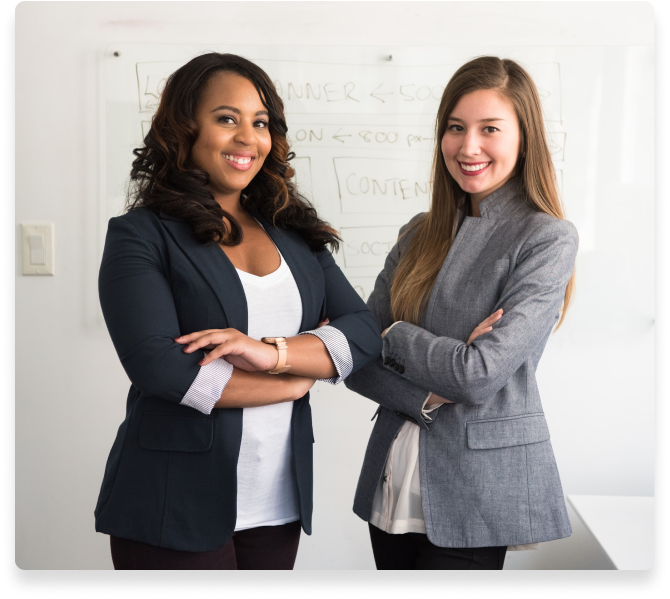
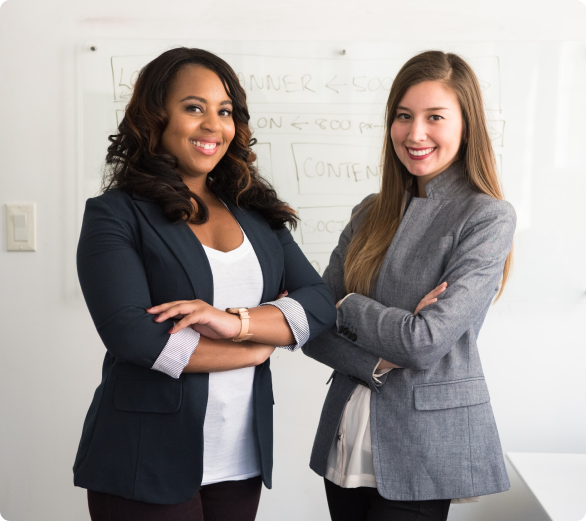
schimbare iconite

diff --git a/src/components/Home/Servicii/CasetaServicii.tsx b/src/components/Home/Servicii/CasetaServicii.tsx
@@ -40,9 +40,8 @@ const CasetaServicii = ({
             duration: 1,
           },
         }}
-        className={`container  ${
-          hovered && "shadow-xl"
-        } my-5 flex  h-fit w-full max-w-[500px] flex-col items-center justify-between gap-4  rounded-[10px] bg-alb-site px-4 py-8 text-center  `}
+        className={`container  ${hovered && "shadow-xl"
+          } my-5 flex  h-fit w-full max-w-[500px] flex-col items-center justify-between gap-4  rounded-[10px] bg-alb-site px-4 py-8 text-center  `}
         id="caseta-servicii"
         onMouseLeave={handleMouseLeave}
         onMouseEnter={handleMouseEnter}
@@ -50,15 +49,15 @@ const CasetaServicii = ({
           setHovered(!hovered);
         }}
       >
-        <div className="h-[42px]  w-[42px]  text-rosu-brand">
+        <div className="flex w-full items-center justify-center text-rosu-brand">
           {icon === "leasing" && (
-            <HiOutlineUserGroup className="h-full w-full" />
+            <HiOutlineUserGroup className='w-8 h-8' />
           )}
           {icon === "payroll" && (
-            <IoDocumentAttachOutline className="h-full w-full" />
+            <IoDocumentAttachOutline className='w-8 h-8' />
           )}
           {icon === "recrutare" && (
-            <AiOutlineUsergroupAdd className="h-full w-full" />
+            <AiOutlineUsergroupAdd className='w-8 h-8' />
           )}
         </div>
         <Typography variant="h5" className=" font-normal   text-gri-brand">
@@ -72,9 +71,8 @@ const CasetaServicii = ({
         </Typography>
         <motion.div layout>
           <Button
-            className={`rounded-[8px] border border-alb-site  bg-transparent px-6 py-4 text-[#B21E23]  shadow-none hover:shadow-none ${
-              hovered && "  border-rosu-brand"
-            }`}
+            className={`rounded-[8px] border border-alb-site  bg-transparent px-6 py-4 text-[#B21E23]  shadow-none hover:shadow-none ${hovered && "  border-rosu-brand"
+              }`}
           >
             <Typography variant="paragraph" className="font-bold normal-case ">
               {textButon}

diff --git a/src/components/Home/Avantaje/CardAvantaje.tsx b/src/components/Home/Avantaje/CardAvantaje.tsx
@@ -1,5 +1,7 @@
 import { Card, CardBody, Typography } from "@material-tailwind/react";
-import AccountBalanceIcon from "@mui/icons-material/AccountBalance";
+import { GiPiggyBank, GiEarthAmerica } from "react-icons/gi";
+import { FaUserTie } from "react-icons/fa";
+import { VscLaw } from "react-icons/vsc";
 import ContactsIcon from "@mui/icons-material/Contacts";
 import DirectionsBoatIcon from "@mui/icons-material/DirectionsBoat";
 import ImportContactsIcon from "@mui/icons-material/ImportContacts";
@@ -13,11 +15,11 @@ const CardAvantaje = ({ titlu, descriere, icon }: ICardAvantaje) => {
     <Card className="w-full  max-w-[300px] border-0 border-l-0 bg-alb-site md:px-2 shadow-none   ">
       <CardBody className="flex h-fit flex-col items-center gap-2 px-0  ">
         <div className="flex flex-col gap-4">
-          <div className="text-[#BF4546]">
-            {icon === "bank" && <AccountBalanceIcon />}
-            {icon === "ue" && <ContactsIcon />}
-            {icon === "manageri" && <DirectionsBoatIcon />}
-            {icon === "suport" && <ImportContactsIcon />}
+          <div className="text-[#BF4546] flex items-center justify-center">
+            {icon === "bank" && <GiPiggyBank className='w-8 h-8' />}
+            {icon === "ue" && <GiEarthAmerica className='w-8 h-8' />}
+            {icon === "manageri" && <FaUserTie className='w-8 h-8' />}
+            {icon === "suport" && <VscLaw className='w-8 h-8' />}
           </div>
           <div className="flex flex-col gap-2 text-gri-brand">
             <Typography variant="h6" className="font-medium  md:px-14 ">

diff --git a/src/components/Home/Nevoi/NevoiSection.tsx b/src/components/Home/Nevoi/NevoiSection.tsx
@@ -4,7 +4,7 @@ import imagineFemei from "../../../../public/imagini/nevoi/femei.png";
 
 const NevoiSection = () => {
   return (
-    <section className="container relative flex w-full items-start justify-start bg-[#506673] px-2 pb-24 md:pr-6  md:pb-[0px]   ">
+    <section className="container relative flex w-full items-start justify-start bg-[#506673] pb-[100px] px-2 md:pb-0       ">
       <div className="flex w-full flex-col-reverse items-center lg:flex-row ">
         <div
           className="flex  max-w-[606px] flex-col justify-center gap-12   text-alb-site md:w-full md:pr-2"
@@ -40,9 +40,9 @@ const NevoiSection = () => {
           </Typography>
         </div>
 
-        <div className="relative right-0 top-0 mx-2 -translate-y-24 transform p-2  md:w-2/3 md:-translate-y-[9%] ">
+        <div className="relative w-full right-0 top-0  -translate-y-24 transform   md:w-2/3 md:-translate-y-[9%] ">
           <Image
-            className=" w-full rounded-xl object-fill drop-shadow"
+            className=" w-full rounded-xl object-cover drop-shadow"
             alt="imagine-femei"
             src={imagineFemei}
           />

diff --git a/src/app/page.tsx b/src/app/page.tsx
@@ -23,7 +23,7 @@ export default function Home() {
           <AvantajeSection />
         </div>
         <div
-          className="mx-1 flex flex-col items-center justify-center bg-gri-bg  px-4 pb-[100px] md:mx-2 md:px-16  "
+          className="mx-1 flex flex-col items-center justify-center bg-gri-bg  px-4  md:mx-2 md:px-16  "
           id="background"
         >
           <NevoiSection />

diff --git a/src/components/Home/Blog/BlogSection.tsx b/src/components/Home/Blog/BlogSection.tsx
@@ -7,8 +7,8 @@ const BlogSection = () => {
   return (
     <section className="container  px-6 text-center md:px-0">
       <Typography
-        variant="h3"
-        className=" mb-[60px] mt-[100px]  text-start font-bold "
+        variant="h5"
+        className=" mb-[60px] mt-[100px] md:text-2xl  text-start font-bold "
       >
         Cele mai noi articole de pe blog
       </Typography>
